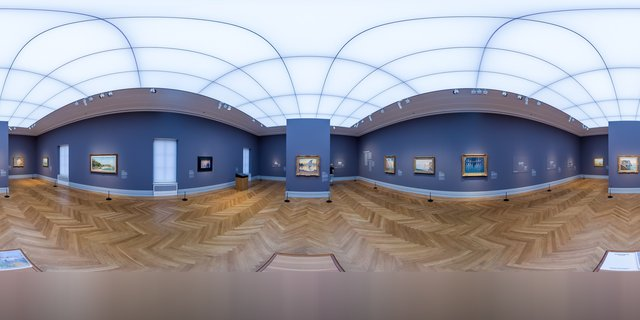
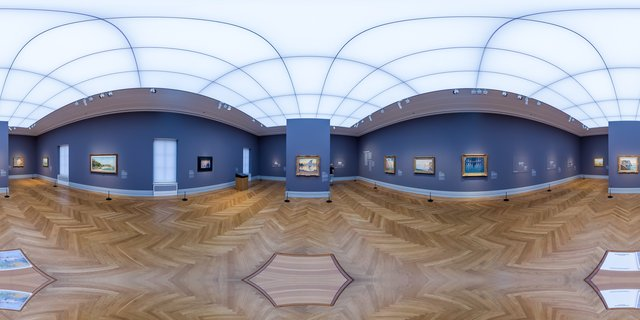
Barberini-Nadir ordentlich: Stativ mit gespiegelter Parkett-Textur gefuellt statt glatter Kappe

Changed region(s): [[0.0, 0.8438, 1.0, 1.0]]

diff --git a/platform/dev/seed_barberini.py b/platform/dev/seed_barberini.py
@@ -22,6 +22,7 @@ from datetime import datetime, timezone
 from pathlib import Path
 import re
 
+import numpy as np
 from PIL import Image
 
 _SSL = ssl.create_default_context()
@@ -75,6 +76,17 @@ def sid_for(i):
     return f"barberini-{i+1:02d}"
 
 
+def fill_nadir(im, top_frac=0.875):
+    """Stativ/Fotograf am Nadir entfernen: das Boden-Band direkt oberhalb nach
+    unten SPIEGELN, sodass die Parkett-Textur weiterlaeuft (kein glatter Fleck)."""
+    a = np.asarray(im.convert("RGB")).astype(np.float32)
+    H, W, _ = a.shape
+    y0 = int(H * top_frac)
+    for k in range(H - y0):
+        a[y0 + k] = a[max(0, y0 - 1 - k)]
+    return Image.fromarray(np.clip(a, 0, 255).astype(np.uint8))
+
+
 # Aus Sichtpruefung der 10 Panos verortete Tuer-Winkel (yaw) je Saal (1-basiert):
 # 'next' = Durchgang Richtung naechster Saal, 'prev' = Durchgang zurueck.
 DOORS = {
@@ -125,6 +137,7 @@ def main():
             if im.width > MAX_W:
                 im = im.resize((MAX_W, MAX_W // 2), Image.LANCZOS)
             w, h = im.size
+            im = fill_nadir(im)                     # Stativ am Nadir wegretuschieren
             im.save(dest / "pano.jpg", quality=90)
             im.resize((640, 320), Image.LANCZOS).save(dest / "thumb.jpg", quality=85)
         attrib = f"{meta['artist']}, {meta['license']}"
